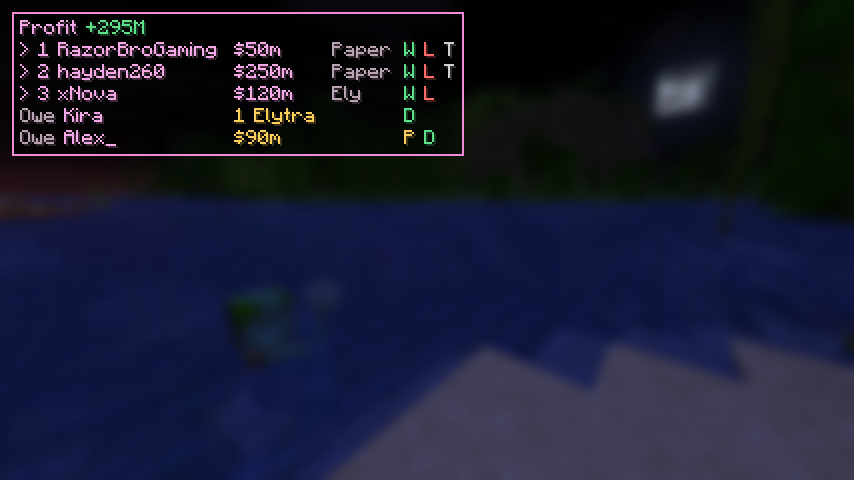
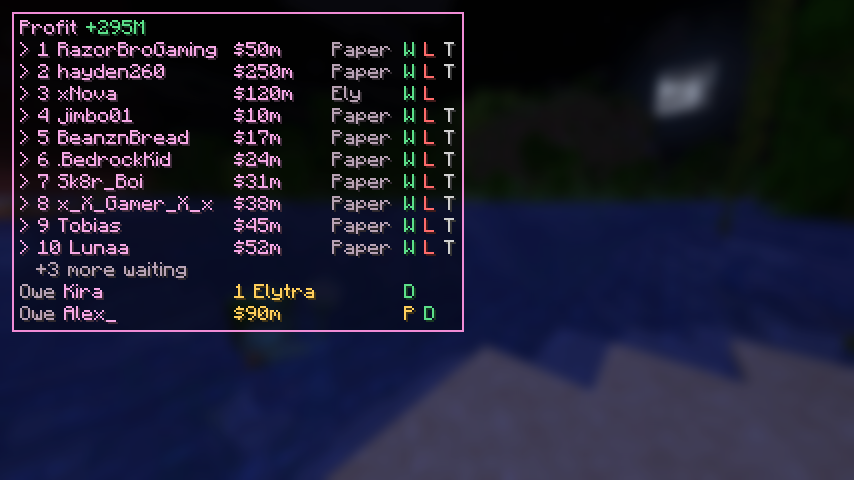
Show "+N more" when the queue or owed list is longer than 10
Game test now feeds payments from many different players.

Claude-Session: https://claude.ai/code/session_01PoLsKm9a5sHzeNbXLJUbZc

Changed region(s): [[0.0, 0.2188, 0.548, 0.7188]]

diff --git a/src/main/java/com/donutgamble/client/QueueOverlay.java b/src/main/java/com/donutgamble/client/QueueOverlay.java
@@ -98,7 +98,9 @@ final class QueueOverlay {
 		int lettersX = gameX + tr.getWidth("Paper") + 6;
 		int width = Math.max(lettersX + 3 * LETTER + PAD - 4, tr.getWidth("> waiting for /pay...") + 2 * PAD);
 
-		int rows = 1 + Math.max(1, shownQueue.size()) + shownOwed.size();
+		int moreQueue = queue.size() - shownQueue.size();
+		int moreOwed = owed.size() - shownOwed.size();
+		int rows = 1 + Math.max(1, shownQueue.size()) + shownOwed.size() + (moreQueue > 0 ? 1 : 0) + (moreOwed > 0 ? 1 : 0);
 		int height = PAD * 2 + rows * ROW - 2;
 		Draw.box(ctx, 0, 0, width, height, Colors.BG);
 
@@ -133,6 +135,11 @@ final class QueueOverlay {
 			y += ROW;
 		}
 
+		if (moreQueue > 0) {
+			ctx.drawTextWithShadow(tr, "  +" + moreQueue + " more waiting", PAD, y, Colors.MUTED);
+			y += ROW;
+		}
+
 		for (Bet b : shownOwed) {
 			ctx.drawTextWithShadow(tr, "Owe ", PAD, y, Colors.MUTED);
 			ctx.drawTextWithShadow(tr, b.player, PAD + tr.getWidth("Owe "), y, Colors.PINK);
@@ -143,6 +150,9 @@ final class QueueOverlay {
 			}
 			letter(ctx, tr, lx, y, "D", Colors.GREEN, () -> state.settle(b));
 			y += ROW;
+		}
+		if (moreOwed > 0) {
+			ctx.drawTextWithShadow(tr, "  +" + moreOwed + " more owed", PAD, y, Colors.MUTED);
 		}
 	}
 

diff --git a/src/gametest/java/com/donutgamble/client/DonutGambleClientGameTest.java b/src/gametest/java/com/donutgamble/client/DonutGambleClientGameTest.java
@@ -44,6 +44,13 @@ public class DonutGambleClientGameTest implements FabricClientGameTest {
 			check(state.ledger.owed().size() == 2, "2 owed payouts");
 			pay(client, "You paid Alex_ $ 1M");
 			check(state.ledger.owed().size() == 2, "paying the wrong amount doesn't clear a payout");
+
+			// A busy stream: lots of different players paying at once.
+			String[] names = {"jimbo01", "BeanznBread", ".BedrockKid", "Sk8r_Boi", "x_X_Gamer_X_x", "Tobias", "Lunaa", "zz9", "Pepperoni_Pete", "AAA"};
+			for (int i = 0; i < names.length; i++) {
+				pay(client, names[i] + " paid you $ " + (10 + i * 7) + "M");
+			}
+			check(state.ledger.pending().size() == 13, "every player's payment is queued");
 			check(state.ledger.sessionStats().net() == 400 * M - 60 * M - 45 * M, "session net");
 		});
 
